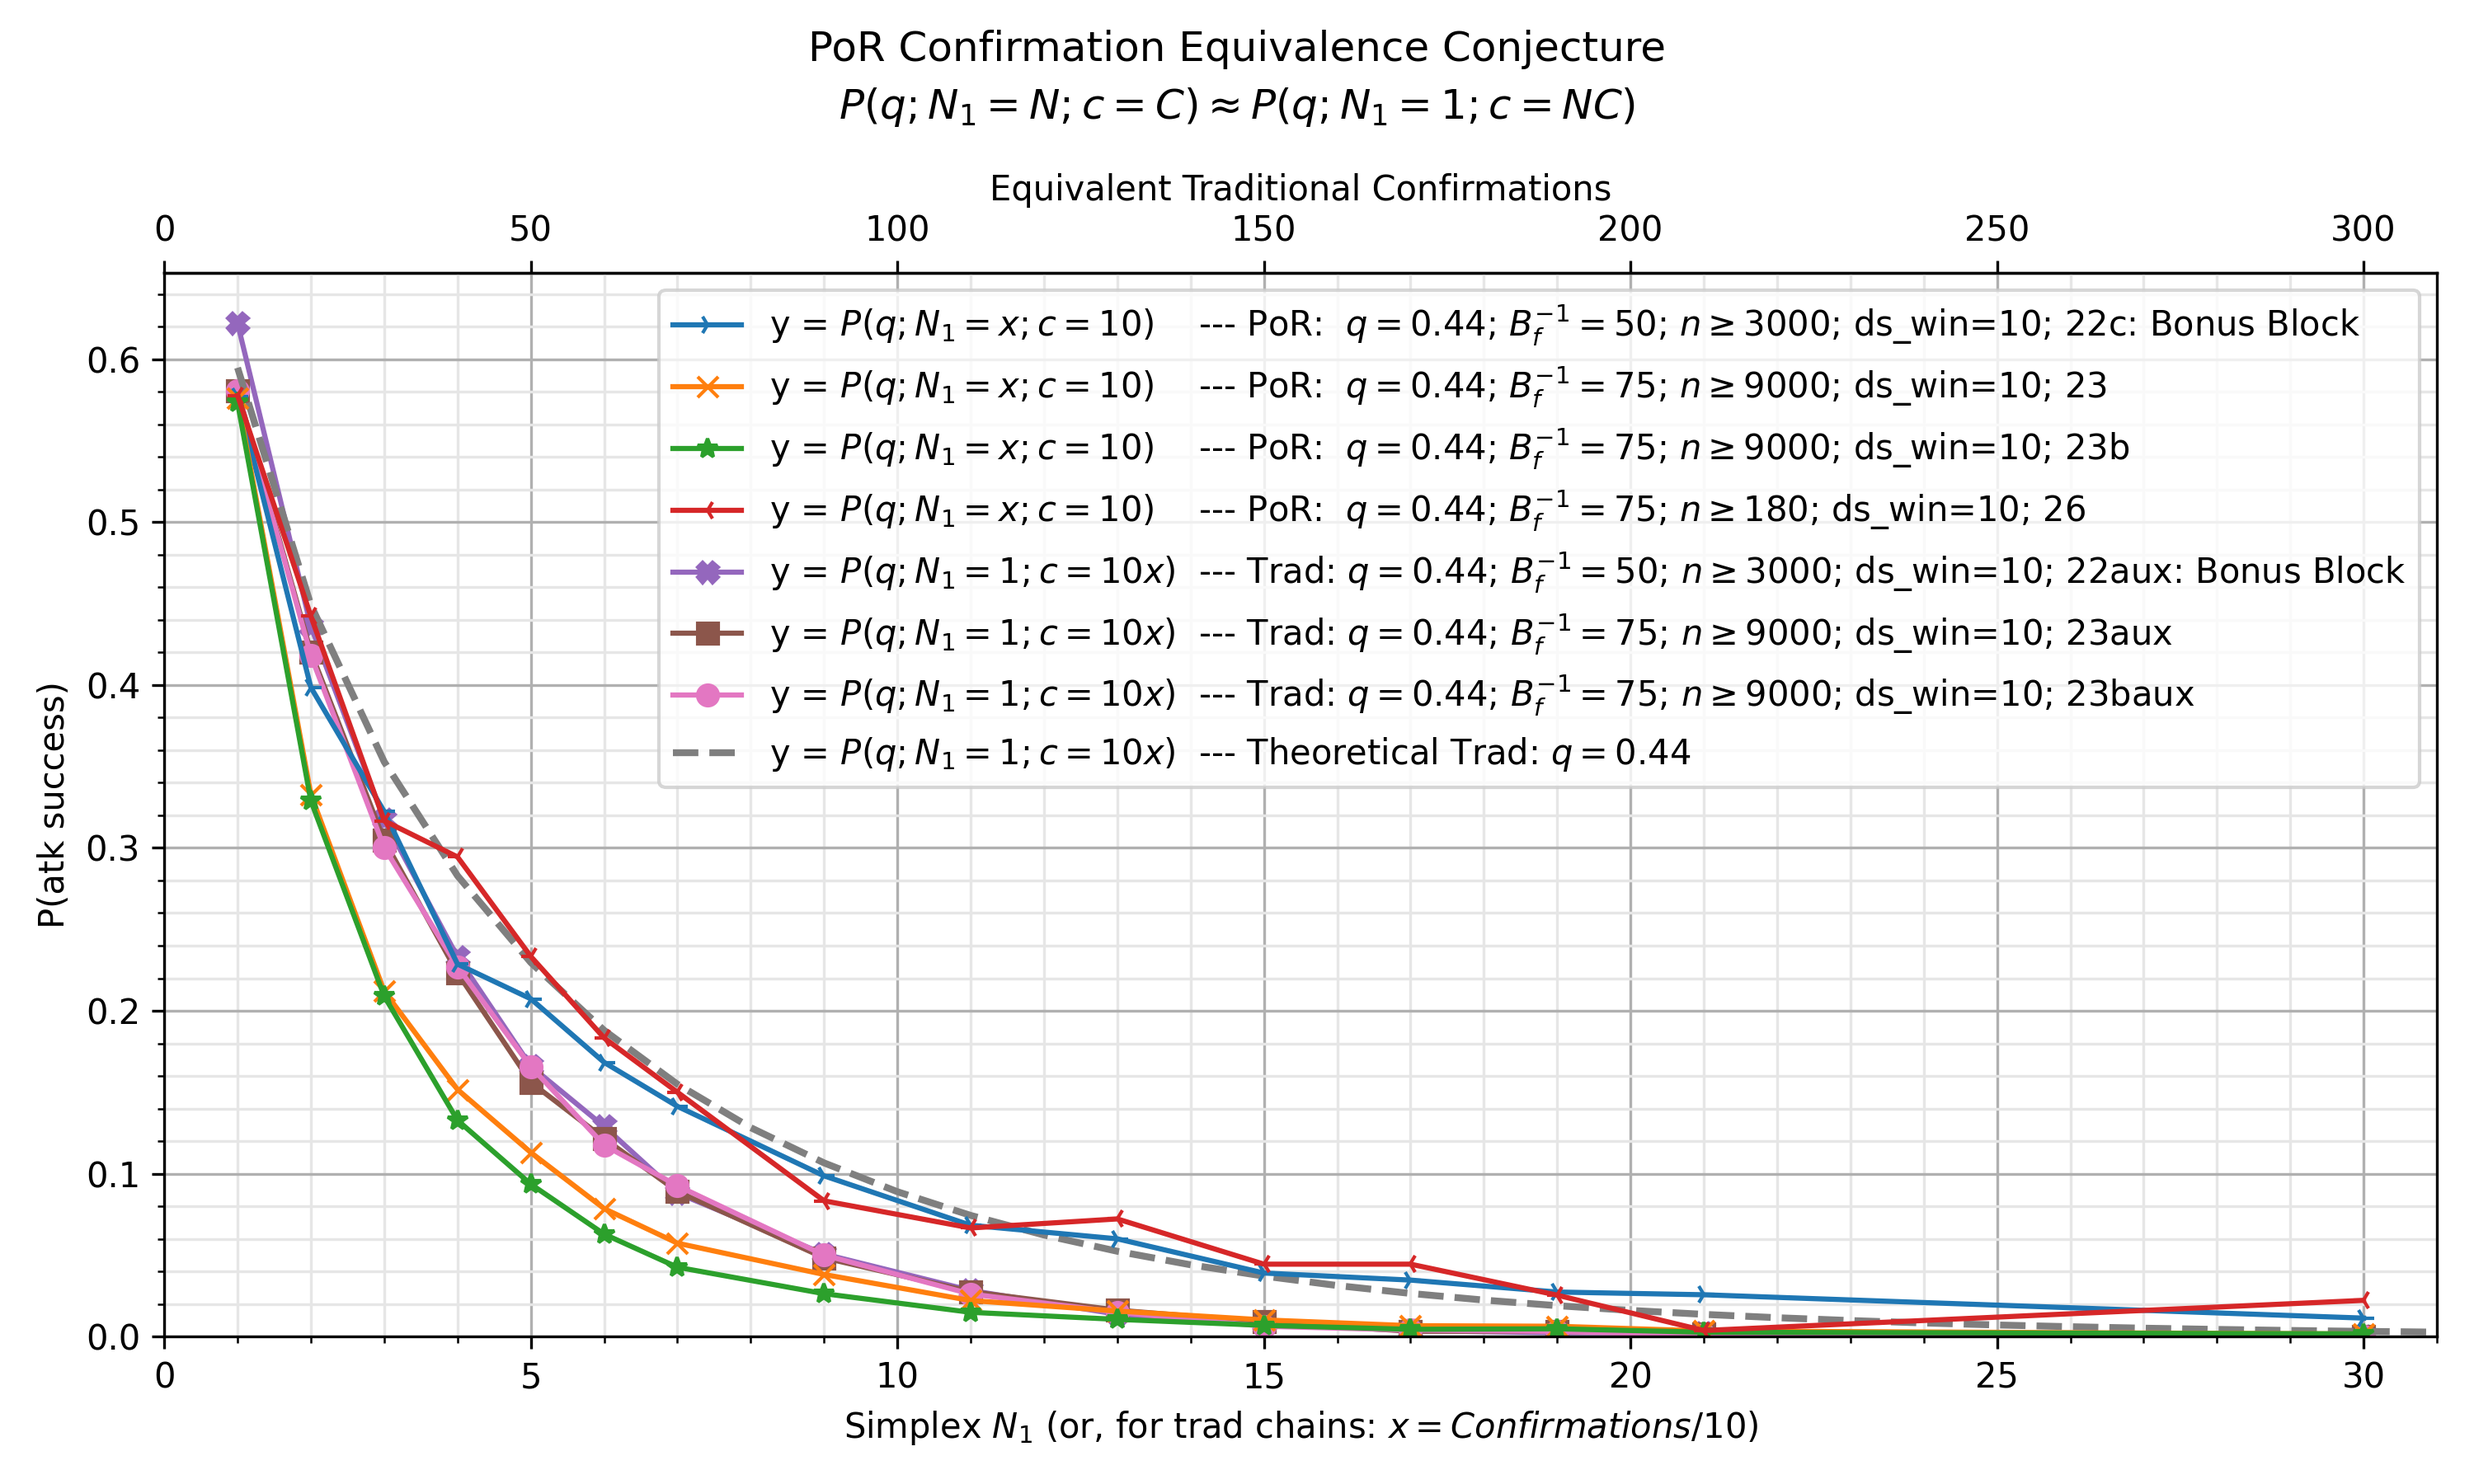
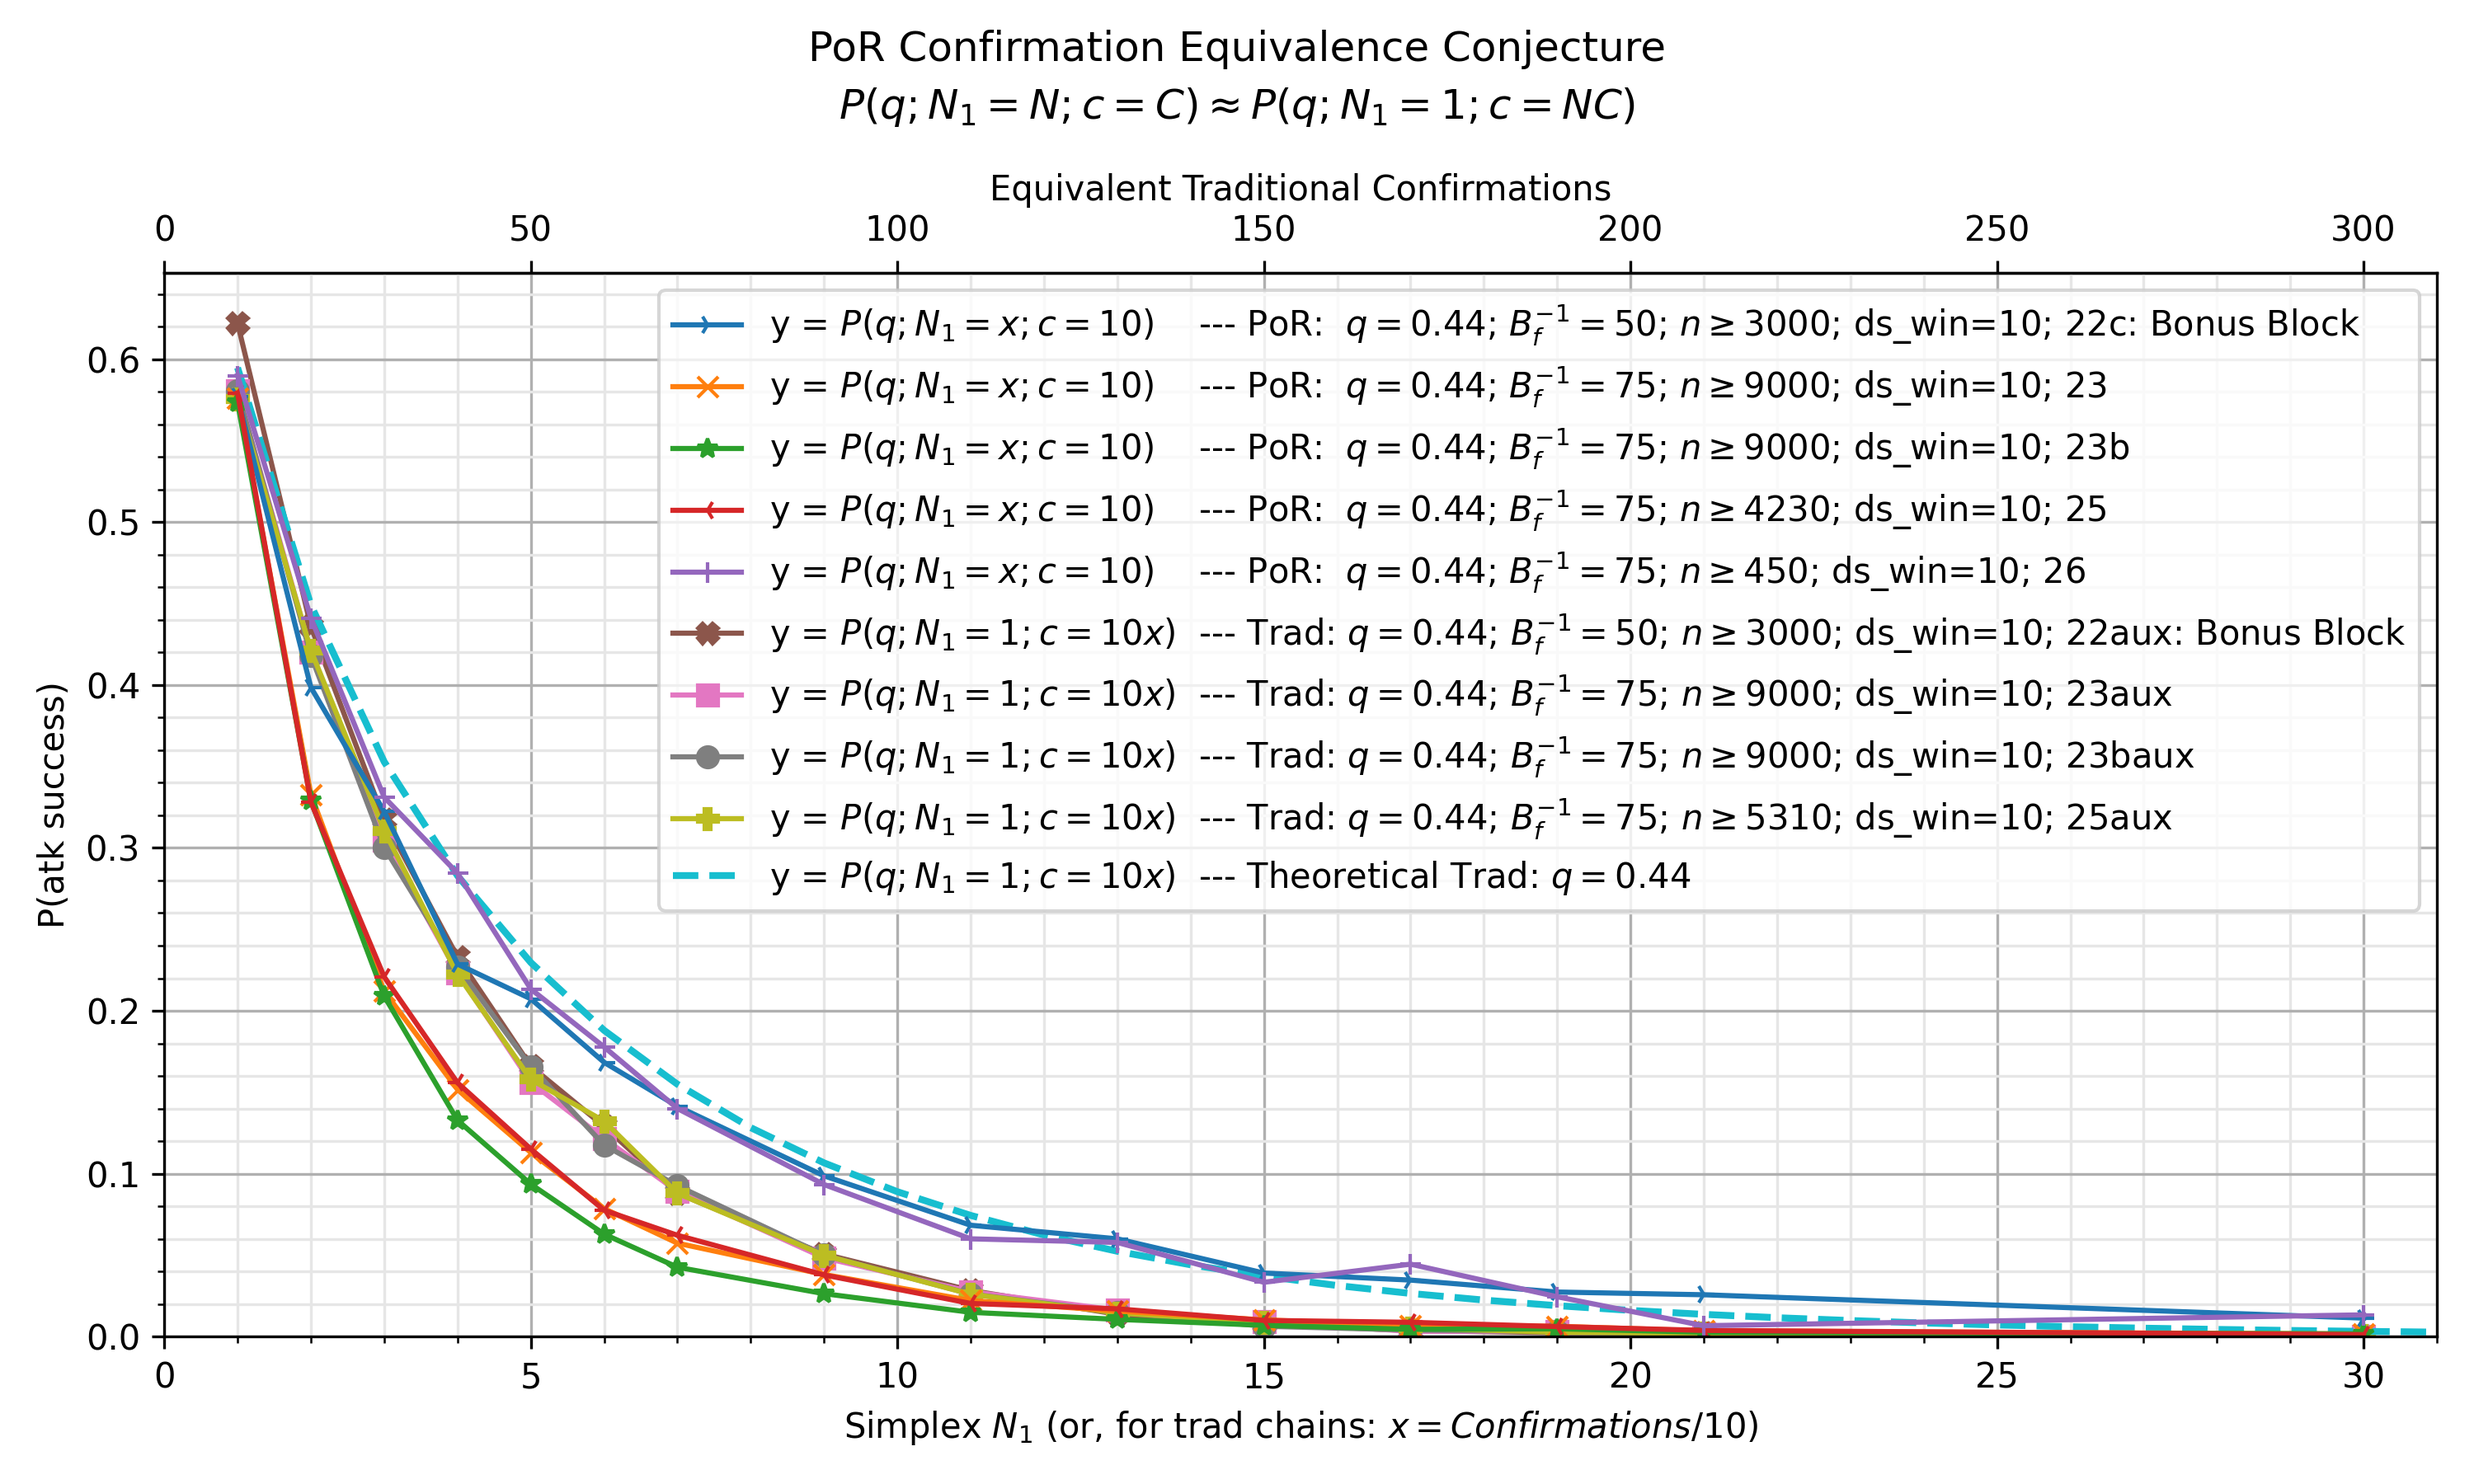
partial exp25 results -- not worth continuing e25 so aborting it

diff --git a/experiments/por-sim-rs/bin/py_stats.py b/experiments/por-sim-rs/bin/py_stats.py
@@ -955,13 +955,13 @@ def main(filter_fname: Optional[str], n_jobs: int):
                     ('23', 'xxh3', 'por', PorPlotOpts(_label_extra='23'), dict(bt=75, hr=75)),
                     ('23b', 'xxh3', 'por', PorPlotOpts(_label_extra='23b'), dict(bt=75, hr=75)),
                     # ('24', 'xxh3', 'por', PorPlotOpts(_label_extra='24'), dict(bt=50, hr=50)),
-                    # ('25', 'xxh3', 'por', PorPlotOpts(_label_extra='25'), dict(bt=75, hr=75)),
+                    ('25', 'xxh3', 'por', PorPlotOpts(_label_extra='25'), dict(bt=75, hr=75)),
                     ('26', 'xxh3', 'por', PorPlotOpts(_label_extra='26'), dict(bt=75, hr=75)),
                     ('22aux', 'xxh3', 'trad', PorPlotOpts(_label_extra='22aux: Bonus Block'), dict()),
                     ('23aux', 'xxh3', 'trad', PorPlotOpts(_label_extra='23aux'), dict(bt=75, hr=75)),
                     ('23baux', 'xxh3', 'trad', PorPlotOpts(_label_extra='23baux'), dict(bt=75, hr=75)),
                     # ('24aux', 'xxh3', 'trad', PorPlotOpts(_label_extra='24aux'), dict(bt=50, hr=50)),
-                    # ('25aux', 'xxh3', 'trad', PorPlotOpts(_label_extra='25aux'), dict(bt=75, hr=75)),
+                    ('25aux', 'xxh3', 'trad', PorPlotOpts(_label_extra='25aux'), dict(bt=75, hr=75)),
                     # ('26aux', 'xxh3', 'trad', PorPlotOpts(_label_extra='26aux'), dict(bt=75, hr=75)),
                 ]
             ],
